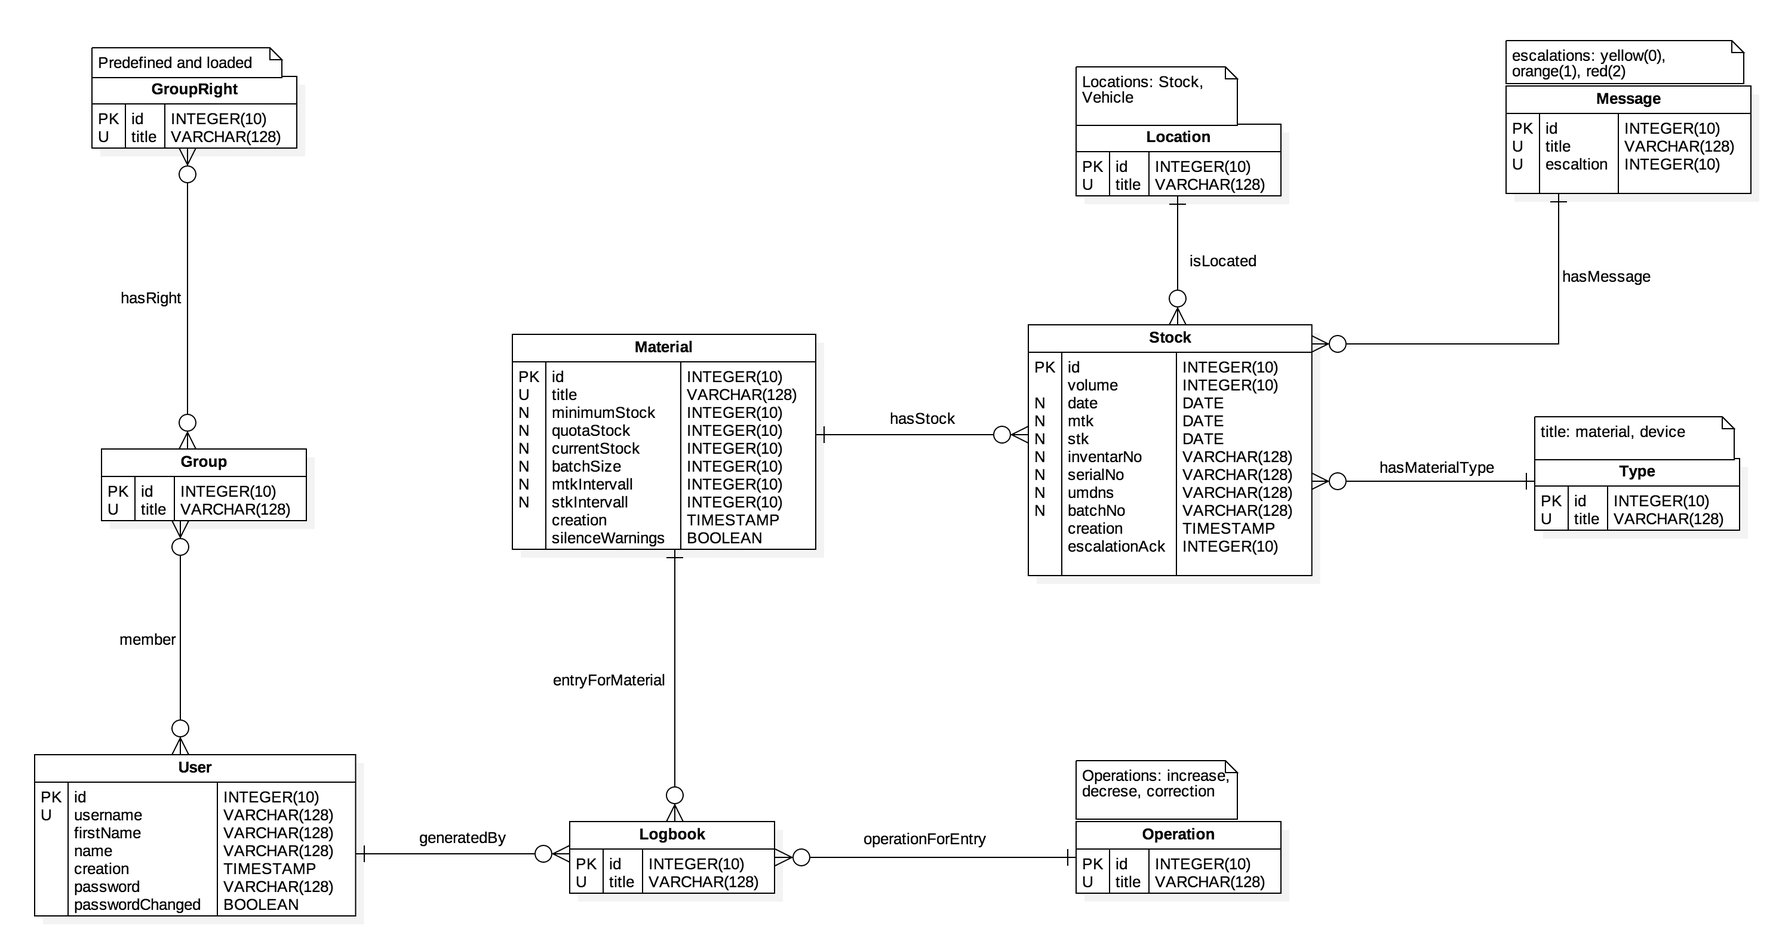
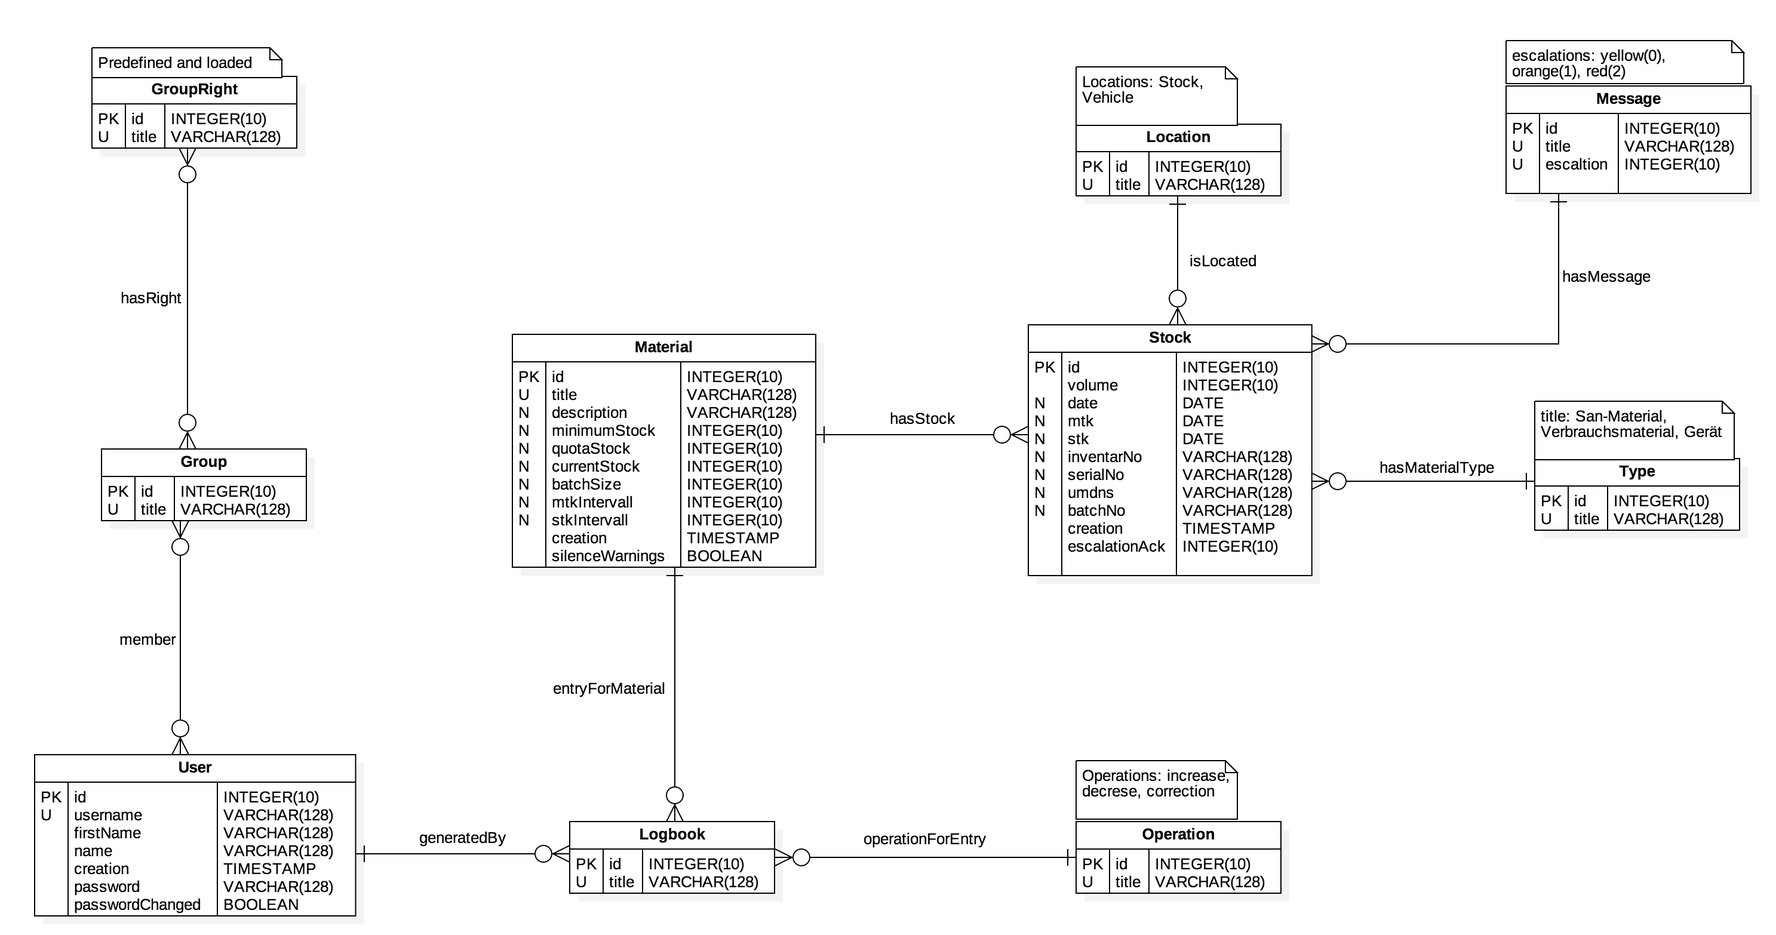
Use-Case Beschreibungen hinzugefügt

Changed region(s): [[0.3093, 0.4291, 0.464, 0.613], [0.8662, 0.4291, 0.9899, 0.4904], [0.3093, 0.705, 0.3712, 0.7663]]

diff --git a/modellierung/usecases.md b/modellierung/usecases.md
@@ -1,0 +1,304 @@
+# Übersicht
+
+1. Anmelden/Abmelden
+2. Kennwörter
+3. Gruppen
+4. Benutzer
+5. Geräte, SAN-Materialien, Verbrauchsmaterialien
+6. Lagerorte
+7. Bestandsänderungen
+8. Listen/Alarme
+9. Sonstige Funktionen
+
+
+
+## 1. Anmelden/Abmelden
+
+| Name: | Anmelden |
+| --- | --- |
+| Primärer Nutzer: | Admin, User |
+| Ziel (des Nutzers): | Im System angemeldet zu sein |
+| Vorbedingung: | 1. Der Nutzer besitzt gültige LogIn-Daten<br>2. Das System läuft bereits<br>3. Kein anderer Benutzer ist momentan angemeldet |
+| Nachbedingung: | 1. Dem Nutzer stehen die Funktionen zu Verfügung |
+| Beteiligte Nutzer: | - |
+| Standardablauf: | 1. Der Nutzer gibt seine Benutzerdaten ein und bestätigt anschließend<br>2. Das System prüft, ob Benutzername vorhanden ist und ob das eingegebene Passwort korrekt ist<br>3. Das System öffnet den Menübereich |
+| Erweiterung: | 1. und <br>2. wie Standardablauf<br>3. Das System bricht die Anmeldung mit der Meldung &quot;Passwort oder Benutzername falsch&quot; ab |
+
+
+
+| Name: | Abmelden |
+| --- | --- |
+| Primärer Nutzer: | Admin, User |
+| Ziel (des Nutzers): | Vom System abgemeldet zu sein |
+| Vorbedingung: | 1. Der Nutzer ist im System angemeldet |
+| Nachbedingung: | 1. Dem Nutzer stehen die Funktionen nicht mehr zur Verfügung |
+| Beteiligte Nutzer: | - |
+| Standardablauf: | 1. Der Nutzer wählt die Funktion &quot;Abmelden&quot; aus<br>2. Das System zeigt dem Nutzer die Meldung &quot;Alle nicht gespeicherten Vorgänge gehen beim Abmelden verloren. Wollen sie sich wirklich abmelden?&quot;<br>3. Der Nutzer bestätigt die Meldung<br>4. Das System schließt die Datenbankverbindung und zeigt wieder den LogIn Screen an |
+| Erweiterung: | 1. - 2. wie beim Standardablauf<br>3. Der Nutzer bricht den Vorgang über die Meldung ab<br>4. Das System zeigt wieder den Menübereich an |
+
+
+
+## 2. Kennwörter
+
+| Name: | ZurücksetzenKennwort |
+| --- | --- |
+| Primärer Nutzer: | Administrator |
+| Ziel (des Nutzers): | Das Zurücksetzen eines Kennworts |
+| Vorbedingung: | 1. Der Nutzer ist im System angemeldet |
+| Nachbedingung: | 1. Der Benutzer kann sich wieder im System anmelden |
+| Beteiligte Nutzer: | evtl. Benutzer |
+| Standardablauf: | 1. Der Nutzer ruft die Funktion &quot;Kennwort zurücksetzen&quot; auf<br>2. Das System zeigt eine Liste mit allen Benutzern an<br>3. Der Nutzer wählt den Benutzer, dessen Kennwort zurückgesetzt werden soll, aus<br>4. Das System öffnet eine Meldung, ob das Kennwort wirklich zurückgesetzt werden soll<br>5. Der Nutzer bestätigt die Meldung<br>6. Das System setzt das Kennwort des Nutzers zurück |
+| Erweiterung: | 1. - 4. wie Standardablauf<br>5. Der Nutzer bricht den Vorgang über die Meldung ab |
+
+
+
+| Name: | ÄndernKennwort |
+| --- | --- |
+| Primärer Nutzer: | Administrator, Benutzer |
+| Ziel (des Nutzers): | Das alte Kennwort wird ungültig und das neue Kennwort kann beim LogIn benutzt werden |
+| Vorbedingung: | 1. Der Nutzer ist im System angemeldet<br>2. Der Nutzer kennt sein aktuelles Kennwort |
+| Nachbedingung: | 1. Das neue Kennwort kann für den LogIn genutzt werden<br>2. Das alte Kennwort kann nicht länger für den LogIn genutzt werden |
+| Beteiligte Nutzer: | - |
+| Standardablauf: | 1. Der Nutzer ruft die Funktion &quot;Kennwort ändern&quot; aus<br>2. Der Nutzer wird vom System in einer Eingabemaske aufgefordert sein aktuelles Kennwort einzugeben<br>3. Das System prüft das eingegebene Kennwort<br>4. Das System öffnet eine Eingabemaske für das neue Kennwort<br>5. Der Nutzer gibt das neue Kennwort ein und bestätigt seine Eingabe<br>6. Das System prüft die Eingabe, meldet die erfolgreiche Änderung des Kennworts und ändert das Kennwort in der Datenbank |
+| Erweiterung 1: | 1. - 3. wie Standardablauf<br>4. Das System meldet, dass das Passwort nicht korrekt ist und bricht den Vorgang ab |
+| Erweiterung <br>2. | 1. - 5. wie Standardablauf<br>6. Das System meldet, dass die beiden Passwortfelder nicht übereinstimmen und bricht den Vorgang ab |
+
+
+
+## 3. Gruppen
+
+| Name: | AnlegenGruppe |
+| --- | --- |
+| Primärer Nutzer: | Administrator |
+| Ziel (des Nutzers): | Eine neue Gruppe mit entsprechenden Rechten ist verfügbar |
+| Vorbedingung: | 1. Der Nutzer ist im System angemeldet |
+| Nachbedingung: | 1. Die neue Gruppe ist zuweisbar und besitzt ihre Rechte |
+| Beteiligte Nutzer: | - |
+| Standardablauf: | 1. Der Nutzer ruft die Funktion &quot;Gruppe anlegen&quot; auf<br>2. Das System öffnet die Eingabemaske für den Nutzer<br>3. Der Nutzer gibt die Gruppendaten (wie zB &quot;Name&quot; der Gruppe) in die Eingabemaske ein, wählt ihre Berechtigungen aus und bestätigt seine Eingabe<br>4. Das System prüft die eingegebenen Daten<br>5. Das System meldet die erfolgreiche Anlage der neuen Gruppe und erstellt einen neuen Datensatz in der Datenbank |
+| Erweiterung: | 1. - 3. wie Standardablauf<br>4. Das System stellt einen oder mehrere Fehler fest, gibt eine Fehlermeldung aus und zeigt wieder die Eingabemaske mit den bereits vom Nutzer eingegebenen Daten an |
+
+
+
+| Name: | LöschenGruppe |
+| --- | --- |
+| Primärer Nutzer: | Administrator |
+| Ziel (des Nutzers): | Ein Gruppendatensatz ist gelöscht |
+| Vorbedingung: | 1. Der Nutzer ist im System angemeldet<br>2. Der Gruppendatensatz befindet sich in der Datenbank |
+| Nachbedingung: | 1. Die Gruppe ist gelöscht und nicht mehr zuweisbar |
+| Beteiligte Nutzer: | - |
+| Standardablauf: | 1. Der Nutzer ruft die Funktion &quot;Gruppe Löschen&quot; auf<br>2. Das System zeigt eine Liste aller vorhandenen Gruppen an<br>3. Der Nutzer wählt die zu löschende Gruppe aus<br>4. Das System fragt über eine Meldung, ob die Gruppe wirklich gelöscht werden soll<br>5. Der Nutzer bestätigt die Meldung<br>6. Das System löscht die Gruppe aus der Datenbank |
+| Erweiterung: | 1. - 4. wie Standardablauf<br>5. Der Nutzer bricht den Vorgang über die Meldung ab |
+
+
+
+| Name: | EditiereGruppe |
+| --- | --- |
+| Primärer Nutzer: | Administrator |
+| Ziel (des Nutzers): | Änderung der Daten einer Gruppe |
+| Vorbedingung: | 1. Der Nutzer ist im System angemeldet<br>2. Die zu ändernde Gruppe ist im System vorhanden |
+| Nachbedingung: | 1. Die Daten wurden erfolgreich geändert<br>2. Die Änderung sind nach Einloggen des nächsten Benutzers aktiv |
+| Beteiligte Nutzer: | - |
+| Standardablauf: | 1. Der Nutzer ruft die &quot;Gruppe Bearbeiten&quot; Funktion auf<br>2. Das System öffnet eine Liste mit allen Gruppen<br>3. Der Nutzer wählt die gewünschten Gruppe aus der Liste aus<br>4. Das System öffnet eine Eingabemaske mit den bereits existierenden Gruppendaten und Rechten<br>5. Der Nutzer nimmt seine Änderungen vor und bestätigt diese<br>6. Das System zeigt eine Erfolgsmeldung an und springt zurück in die Gruppenliste |
+| Erweiterung: | 1. - 4. wie Standardablauf<br>5. Der Nutzer bricht den Vorgang über eine Meldung ab |
+
+Zu Standardablauf <br>6.: Nach Beendigung des Vorgangs eher zurück in das Hauptmenü?
+
+
+
+## 4. Benutzer
+
+| Name: | HinzufügenBenutzer |
+| --- | --- |
+| Primärer Nutzer: | Administrator |
+| Ziel (des Nutzers): | Ein neuer Benutzer ist angelegt |
+| Vorbedingung: | 1. Der Nutzer ist im System angemeldet |
+| Nachbedingung: | 1. Der angelegte Benutzer kann sich im System einloggen<br>2. Der Benutzer ist in der Benutzerübersicht sichtbar |
+| Beteiligte Nutzer: | - |
+| Standardablauf: | 1. Der Nutzer ruft die Funktion &quot;Mitarbeiter Hinzufügen&quot; auf<br>2. Das System öffnet die Eingabemaske für den Nutzer<br>3. Der Nutzer gibt die Benutzerdaten in die Eingabemaske ein, wählt dessen Gruppe aus und bestätigt seine Eingabe<br>4. Das System prüft die eingegebenen Daten<br>5. Das System meldet die erfolgreiche Anlage des neuen Benutzer und erstellt einen neuen Datensatz in der Datenbank |
+| Erweiterung: | 1. - 4. wie Standardablauf<br>5. Das System meldet, dass das Mitglied nicht angelegt werden konnte (inkl. Fehlermeldung) |
+
+
+
+| Name: | LöschenBenutzer |
+| --- | --- |
+| Primärer Nutzer: | Administrator |
+| Ziel (des Nutzers): | Ein Benutzerdatensatz ist gelöscht |
+| Vorbedingung: | 1. Der Nutzer ist im System angemeldet<br>2. Der Benutzerdatensatz befindet sich in der Datenbank |
+| Nachbedingung: | 1. Der Benutzerdatensatz ist gelöscht und nicht mehr in der Benutzerübersicht sichtbar |
+| Beteiligte Nutzer: | - |
+| Standardablauf: | 1. Der Nutzer ruft die Funktion &quot;Mitarbeiter Löschen&quot; auf<br>2. Das System zeigt eine Liste aller vorhandenen Benutzer an<br>3. Der Nutzer wählt den zu löschenden Benutzer aus<br>4. Das System fragt über eine Meldung, ob der Nutzer wirklich gelöscht werden soll<br>5. Der Nutzer bestätigt die Meldung<br>6. Das System löscht den Benutzerdatensatz aus der Datenbank |
+| Erweiterung: | 1. - 4. wie Standardablauf<br>5. Der Nutzer bricht den Vorgang über die Meldung ab |
+
+
+
+| Name: | EditiereBenutzer |
+| --- | --- |
+| Primärer Nutzer: | Administrator |
+| Ziel (des Nutzers): | Änderung der Daten eines Benutzers |
+| Vorbedingung: | 1. Der Nutzer ist im System angemeldet<br>2. Der zu ändernde Benutzer ist im System vorhanden |
+| Nachbedingung: | 1. Die Daten wurden erfolgreich geändert<br>2. Die Änderung sind nach Einloggen des Benutzers aktiv |
+| Beteiligte Nutzer: | - |
+| Standardablauf: | 1. Der Nutzer ruft die &quot;Mitarbeiter Bearbeiten&quot; Funktion auf<br>2. Das System öffnet eine Liste mit allen Benutzern<br>3. Der Nutzer wählt den gewünschten Benutzer aus der Liste aus<br>4. Das System öffnet eine Eingabemaske mit den bereits existierenden Benutzerdaten und Gruppen<br>5. Der Nutzer nimmt seine Änderungen vor und bestätigt diese<br>6. Das System zeigt eine Erfolgsmeldung an, ändert den Datensatz in der Datenbank und springt zurück in die Benutzerübersicht |
+| Erweiterung: | 1. - 5. wie Standardablauf<br>6. Der Nutzer bricht den Vorgang über eine Meldung ab |
+
+Zu Standardablauf <br>6.: Nach Beendigung des Vorgangs eher zurück in das Hauptmenü?
+
+
+
+## 5. Geräte, SAN-Materialien, Verbrauchsmaterialien
+
+| Name: | HinzufügenGerät/HinzufügenMaterial |
+| --- | --- |
+| Primärer Nutzer: | Administrator |
+| Ziel (des Nutzers): | Das neue Material/Gerät ist im System verfügbar |
+| Vorbedingung: | 1. Der Nutzer ist im System angemeldet<br>2. Das Gerät/Material ist nicht bereits vorhanden |
+| Nachbedingung: | 1. Das neue Gerät/Material ist in den anderen Funktionen des System sichtbar und kann ausgewählt werden |
+| Beteiligte Nutzer: | - |
+| Standardablauf: | 1. Der Nutzer ruft die Funktion &quot;Gerät Hinzufügen&quot;/&quot;Material Hinzufügen&quot; auf<br>2. Das System öffnet eine Eingabemaske für den Nutzer<br>3. Der Nutzer gibt die Gerätedaten/Materialdaten in die Eingabemaske ein und bestätigt seine Eingabe; im Falle von Materialien muss der Nutzer wählen, ob es sich um ein SAN-Material oder ein Verbrauchsmaterial handelt<br>4. Das System prüft die eingegebenen Daten<br>5. Das System meldet eine erfolgreiche Anlage des neuen Geräts/Materials und erstellt einen neuen Datensatz in der Datenbank |
+| Erweiterung 1: | 1. - 2. wie Standardablauf<br>3. Der Nutzer bricht den Vorgang über eine Meldung ab |
+| Erweiterung <br>2. | 1. - 4. wie Standardablauf<br>5. Das System meldet, dass das Gerät/Material nicht angelegt werden konnte, da es bereits vorhanden ist und bricht den Vorgang mit einer Meldung ab |
+
+
+
+| Name: | LöschenGerät/LöschenMaterial |
+| --- | --- |
+| Primärer Nutzer: | Administrator |
+| Ziel (des Nutzers): | Ein Gerät/Material ist gelöscht |
+| Vorbedingung: | 1. Der Nutzer ist im System angemeldet<br>2. Das Gerät/Material befindet sich in der Datenbank |
+| Nachbedingung: | 1. Das Gerät/Material ist gelöscht und wird nicht mehr in den Listen und Funktionen des Systems angezeigt |
+| Beteiligte Nutzer: | - |
+| Standardablauf: | 1. Der Nutzer ruft die Funktion &quot;Gerät Löschen&quot;/&quot;Material Löschen&quot; auf<br>2. Das System zeigt eine Liste aller vorhandenen Geräte/Materialien an<br>3. Der Nutzer wählt das zu löschenden Gerät/Material aus<br>4. Das System fragt über eine Meldung, ob das Gerät/Material wirklich gelöscht werden soll<br>5. Der Nutzer bestätigt die Meldung<br>6. Das System löscht den Geräte-/Materialdatensatz aus der Datenbank |
+| Erweiterung: | 1. - 4. wie Standardablauf<br>5. Der Nutzer bricht den Vorgang über die Meldung ab |
+
+
+
+| Name: | EditiereGerät/EditiereMaterial |
+| --- | --- |
+| Primärer Nutzer: | Administrator |
+| Ziel (des Nutzers): | Änderung der Daten eines Gerätes/Materials |
+| Vorbedingung: | 1. Der Nutzer ist im System angemeldet<br>2. Das zu ändernde Gerät/Material ist im System vorhanden |
+| Nachbedingung: | 1. Die Daten wurden erfolgreich geändert<br>2. Die Änderung sind in den Geräte-/Materialdetails sichtbar |
+| Beteiligte Nutzer: | - |
+| Standardablauf: | 1. Der Nutzer ruft die &quot;Gerät Bearbeiten&quot;/&quot;Material Bearbeiten&quot; Funktion auf<br>2. Das System öffnet eine Liste mit allen Geräten/Materialen<br>3. Der Nutzer wählt das gewünschte Gerät/Material aus der Liste aus<br>4. Das System öffnet eine Eingabemaske mit den bereits existierenden Geräte-/Materialdaten<br>5. Der Nutzer nimmt seine Änderungen vor und bestätigt diese<br>6. Das System zeigt eine Erfolgsmeldung an und springt zurück in die Mitgliederliste |
+| Erweiterung: | 1. - 5. wie Standardablauf<br>6. Der Nutzer bricht den Vorgang über eine Meldung ab |
+
+Hier könnte zB der Lagerort geändert werden
+
+
+
+## 6. Lagerorte
+
+| Name: | HinzufügenLagerort |
+| --- | --- |
+| Primärer Nutzer: | Administrator |
+| Ziel (des Nutzers): | Ein neuer Lagerort ist für die Geräte/Materialien verfügbar |
+| Vorbedingung: | 1. Der Nutzer ist im System angemeldet<br>2. Der Lagerort existiert noch nicht |
+| Nachbedingung: | 1. Der Lagerort ist für die Geräte/Materialien verfügbar |
+| Beteiligte Nutzer: | - |
+| Standardablauf: | 1. Der Nutzer ruft die Funktion &quot;Lagerort Hinzufügen&quot; auf<br>2. Das System öffnet eine Eingabemaske<br>3. Der Nutzer gibt den Namen (und Standort?) ein und bestätigt seine Eingabe<br>4. Das System prüft die eingegebenen Daten<br>5. Das System meldet das erfolgreiche Anlegen des neuen Lagerortes und fügt ihn der Datenbank hinzu |
+| Erweiterung 1: | 1. - 2. wie Standardablauf<br>3. Der Nutzer bricht den Vorgang mit einer Meldung ab |
+| Erweiterung <br>2. | 1. - 4. wie Standardablauf<br>5. Das System stellt fest, dass der Lagerort bereits existiert und bricht den Vorgang mit einer Meldung ab |
+
+
+
+| Name: | LöschenLagerort |
+| --- | --- |
+| Primärer Nutzer: | Administrator |
+| Ziel (des Nutzers): | Ein Lagerort ist gelöscht |
+| Vorbedingung: | 1. Der Nutzer ist im System angemeldet<br>2. Der Lagerort im System vorhanden |
+| Nachbedingung: | 1. Der Lagerort ist nicht länger im System vorhanden und nicht mehr auswählbar |
+| Beteiligte Nutzer: | - |
+| Standardablauf: | 1. Der Nutzer ruft die Funktion &quot;Lagerort Löschen&quot; auf<br>2. Das System zeigt eine Liste mit allen Lagerorten an<br>3. Der Nutzer wählt den gewünschten Lagerort aus und bestätigt seine Eingabe<br>4. Das System erfragt über eine Meldung, ob alle Geräte/Materialien bereits an andere Lagerorte verteilt worden sind oder ob die Geräte/Materialien alle zusammen an einem neuen Lagerort gebracht werden<br>5. Der Nutzer wählt Option 1<br>6. Das System meldet das erfolgreiche Löschen des Lagerorten und löscht diesen Datensatz aus der Datenbank |
+| Erweiterung 1: | 1. - 2. wie Standardablauf<br>3. Der Nutzer bricht den Vorgang über eine Meldung ab |
+| Erweiterung <br>2. | 1. - 4. wie Standardablauf<br>5. Der Nutzer wählt Option <br>2.. Das System zeigt eine Liste der Lagerorte an und erfragt an welchem Lagerort sich die Geräte/Materialien nun befinden (werden)<br>7. Der Nutzer wählt einen Lagerort aus und bestätigt seine Auswahl<br>8. Das System meldet das erfolgreiche Löschen des Lagerortes und die Aktualisierung des Lagerortes der Geräte/Materialien, die sich zuvor an diesem Lagerort befanden und ändert die entsprechenden Datensätze |
+| Erweiterung 1 von Erweiterung <br>2. | 1. - 6. wie Standardablauf<br>7. Der Nutzer bricht den Vorgang über die Meldung ab |
+
+Daraus werden später <br>2.Use Cases
+
+
+## 7. Bestandsänderungen
+
+| Name: | FüllenBestand |
+| --- | --- |
+| Primärer Nutzer: | Administrator, Benutzer |
+| Ziel (des Nutzers): | Der Bestand wird um das gewünschte Gerät/Material erweitert |
+| Vorbedingung: | 1. Der Nutzer ist im System angemeldet<br>2. Das gewünschte Gerät/Material ist im System verfügbar |
+| Nachbedingung: | 1. Der Bestand ist um die gewünschte Menge erweitert worden |
+| Beteiligte Nutzer: | - |
+| Standardablauf: | 1. Der Nutzer öffnet die Geräte-/Materialliste<br>2. Der Nutzer wählt das gewünschte Material/Gerät aus der Liste aus<br>3. Das System öffnet die Detailansicht des Gerätes/Materials<br>4. Der Nutzer gibt die Anzahl der hinzuzufügenden Geräte/Materialien ein und bestätigt seine Eingabe<br>5. Das System gibt eine Erfolgsmeldung aus und ändert den Datensatz in der Datenbank |
+| Erweiterung: | 1. - 3. wie Standardablauf<br>4. Der Nutzer bricht den Vorgang über eine Meldung ab |
+
+
+
+| Name: | EntnahmeBestand |
+| --- | --- |
+| Primärer Nutzer: | Administrator, Benutzer |
+| Ziel (des Nutzers): | Der Bestand wird um das gewünschte Gerät/Material gemindert |
+| Vorbedingung: | 1. Der Nutzer ist im System angemeldet<br>2. Das gewünschte Gerät/Material ist im System verfügbar |
+| Nachbedingung: | 1. Der Bestand ist um die gewünschte Menge gemindert worden |
+| Beteiligte Nutzer: | - |
+| Standardablauf: | 1. Der Nutzer öffnet die Geräte-/Materialliste<br>2. Der Nutzer wählt das gewünschte Material/Gerät aus der Liste aus<br>3. Das System öffnet die Detailansicht des Gerätes/Materials<br>4. Der Nutzer gibt die Anzahl der entnommenen Geräte/Materialien ein und bestätigt seine Eingabe<br>5. Das System gibt eine Erfolgsmeldung aus und ändert den Datensatz in der Datenbank |
+| Erweiterung: | 1. - 3. wie Standardablauf<br>4. Der Nutzer bricht den Vorgang über eine Meldung ab |
+
+
+
+| Name: | ÄndernLagerortBestand |
+| --- | --- |
+| Primärer Nutzer: | Administrator, Benutzer |
+| Ziel (des Nutzers): | Der Lagerort des gewünschte Gerät/Material wird geändert |
+| Vorbedingung: | 1. Der Nutzer ist im System angemeldet<br>2. Das gewünschte Gerät/Material ist im System verfügbar |
+| Nachbedingung: | 1. Der Lagerort des gewünschte Gerät/Material ist aktualisiert |
+| Beteiligte Nutzer: | - |
+| Standardablauf: | 1. Der Nutzer öffnet die Geräte-/Materialliste<br>2. Der Nutzer wählt das gewünschte Material/Gerät aus der Liste aus<br>3. Das System öffnet die Detailansicht des Gerätes/Materials<br>4. Der Nutzer gibt den neuen Lagerort des Geräts/Materials ein und bestätigt seine Eingabe<br>5. Das System gibt eine Erfolgsmeldung aus und ändert die Datensätze in der Datenbank |
+| Erweiterung: | 1. - 3. wie Standardablauf<br>4. Der Nutzer bricht den Vorgang über eine Meldung ab |
+
+
+
+## 8. Listen/Alarme
+
+| Name: | ExportierenListe |
+| --- | --- |
+| Primärer Nutzer: | Administrator, Benutzer |
+| Ziel (des Nutzers): | Eine pdf/Textdatei mit dem Inventar wird ausgegeben |
+| Vorbedingung: | 1. Der Nutzer ist im System angemeldet |
+| Nachbedingung: | 1. Die Liste enthält die gefilterten Gegenstände |
+| Beteiligte Nutzer: | - |
+| Standardablauf: | 1. Der Nutzer führt die Funktion &quot;Inventarliste Anzeigen&quot; aus<br>2. Der Nutzer wählt seine gewünschten Filter aus<br>3. Der Nutzer wählt die Funktion &quot;Liste Speichern&quot; aus<br>4. Das System fragt den Nutzer in einem entsprechenden Fenster wo die Datei gespeichert werden soll<br>5. Der Nutzer wählt den Ort aus<br>6. Das System speichert die Liste an der entsprechenden Stelle |
+| Erweiterung: | 1. - 4. wie Standardablauf<br>5. Der Nutzer bricht den Vorgang mit schließen des Fensters ab und gelangt wieder in die Inventarliste |
+
+
+
+| Name: | ZeigeAlarme |
+| --- | --- |
+| Primärer Nutzer: | Administrator, Benutzer |
+| Ziel (des Nutzers): | Eine Liste mit den aktuellen Alarmen wird angezeigt |
+| Vorbedingung: | 1. Der Nutzer ist im System angemeldet |
+| Nachbedingung: | 1. Alle aktuellen Alarme werden angezeigt |
+| Beteiligte Nutzer: | - |
+| Standardablauf: | 1. Der Nutzer ruft die Funktion &quot;Alarme Anzeigen&quot; auf<br>2. Das System zeigt eine Liste mit allen Alarmen und ihrem Status an<br>3. Der Nutzer ruft die Funktion &quot;Zurück zum Hauptmenü&quot; auf und das Hauptmenü wird wieder angezeigt |
+| Erweiterung: | - |
+
+
+
+| Name: | VerschickeAlarme |
+| --- | --- |
+| Primärer Nutzer: | - |
+| Ziel (des Nutzers): | - |
+| Vorbedingung: | 1. Das System läuft und es gibt neue Alarme |
+| Nachbedingung: | 1. Alle neuen Alarme wurden verschickt |
+| Beteiligte Nutzer: | Administrator, Benutzer |
+| Standardablauf: | 1. Das System prüft, ob es neue Alarme gibt<br>2. Das System verschickt alle neuen Alarme per Email |
+| Erweiterung: | 1. wie Standardablauf<br>2. Das System findet keine neuen Alarme |
+
+
+## 9. Sonstige Funktionen
+
+| Name: | ZeigeHauptmenü |
+| --- | --- |
+| Primärer Nutzer: | Administrator, Benutzer |
+| Ziel (des Nutzers): | Der Nutzer gelangt wieder in das Hauptmenü |
+| Vorbedingung: | 1. Der Nutzer ist im System angemeldet<br>2. Der Nutzer befindet sich nicht im Hauptmenü |
+| Nachbedingung: | 1. Alle anderen Menüfenster sind geschlossen |
+| Beteiligte Nutzer: | - |
+| Standardablauf: | 1. Der Nutzer ruft die Funktion &quot;Zurück zum Hauptmenü&quot; auf<br>2. Das System erfragt über eine Meldung, ob der Nutzer zurück in das Hauptmenü möchte und alle nicht gespeicherten Änderungen verworfen werden sollen<br>3. Der Nutzer bestätigt dies<br>4. Das System öffnet die Hauptmenüansicht und schließt alle anderen Ansichten |
+| Erweiterung: | 1. - 2. wie Standardablauf<br>3. Der Nutzer bricht den Vorgang über die Meldung ab |

diff --git a/modellierung/sql.md b/modellierung/sql.md
@@ -93,6 +93,7 @@ CREATE TABLE `Type` (
 CREATE TABLE `Material` (
    `id` int(10) unsigned NOT NULL AUTO_INCREMENT PRIMARY KEY,
    `title` varchar(128) COLLATE 'latin1_german2_ci' NOT NULL UNIQUE,
+   `description` varchar(128) COLLATE 'latin1_german2_ci' NULL,
    `minimumStock` int(10) unsigned NULL,
    `quotaStock` int(10) unsigned NULL,
    `currentStock` int(10) unsigned NULL,
@@ -175,7 +176,10 @@ VALUES
 ('modify-material'),
 ('material-increase'),
 ('material-decrease'),
-('material-correction');
+('material-correction'),
+('consumable-material'),
+('medical-material'),
+('devices');
 
 INSERT INTO `Group` (title)
 VALUES ('admin'), ('user');
@@ -218,7 +222,9 @@ WHERE
     `GroupHasRights`.`group` = 1
 ```
 
+
 Alle User, die das Recht haben neue Benutzer anzulegen:
+
 ```sql
 SELECT
     `Group`.*
@@ -228,7 +234,6 @@ FROM
 WHERE
     `GroupHasRights`.`right` = 1
 ```
-
 
 
 Alle User, die der Gruppe ``admin`` angehören:
@@ -242,6 +247,7 @@ FROM
 WHERE
     `UserIsMemberOfGroup`.`group` = 1
 ```
+
 
 Alle Gruppen, in denen der Nutzer ``root`` ist:
 

diff --git a/README.md b/README.md
@@ -57,7 +57,7 @@ Allgemeiner Hinweis: In Ihrer Dokumentation muss immer erkennbar sein, welcher A
 
 ## 4.2 Hintergrund
 - [Anforderungen](./modellierung/requirements.md) **(DOING)**
-- Use-Case-Diagram **(TODO)**
+- [Use-Case-Diagram](./modellierung/usecases.md) **(DOING)**
 
 ## 4.3 Softwarearchitektur
 - [ER-Model](./modellierung/ER/ER-Model.svg) **(ACK)**
